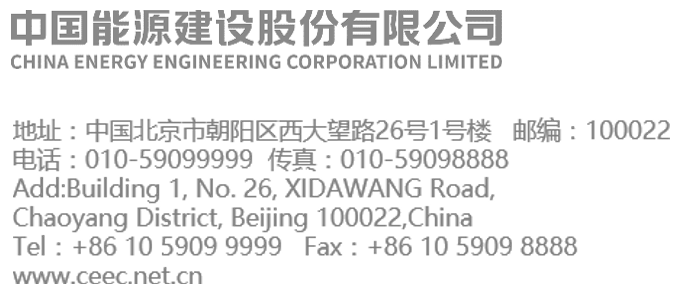
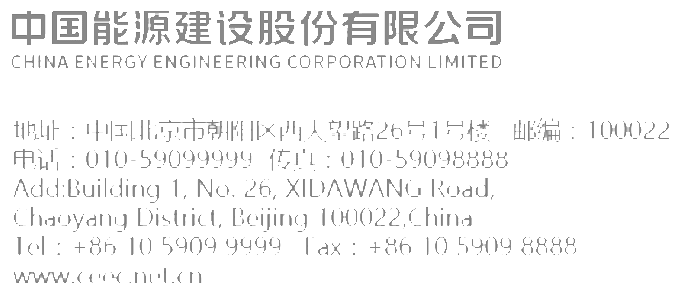
fix(decks): transparent contact block and fixed closing line on 中国能建v2
- images/contact_block.png: key the flat white background out
  (slice_images.py --alpha --bg "#FFFFFF" --strict-alpha) so the company
  block composites onto the page background instead of showing a white
  panel; the soft alpha ramp keeps the anti-aliased glyph edges.
- templates/04_ending.svg: the closing line is fixed template copy
  「感谢聆听，敬请指正」 instead of a {{THANK_YOU}} carrier, matching the
  source slide. The closing layout is intentionally zero-slot and the
  spec asserts that with `04_ending: []`.
- templates/design_spec.md: Overview, Page Roster and Assets rows follow.

Verified: svg_quality_checker.py --template-mode --canonical-authoring
0 blocking findings (18 placeholders after the change),
template_preview_pptx.py (5 slides, 2 masters, 5 layouts, 18 full-frame
placeholders), registrar dry-run reports no index drift, and rendered
checks confirm the transparent contact block, the fixed closing line and
the still-empty picture frame on the card page.

diff --git a/skills/ppt-master/templates/decks/中国能建v2/templates/design_spec.md b/skills/ppt-master/templates/decks/中国能建v2/templates/design_spec.md
@@ -33,7 +33,7 @@ placeholders:
     - "{{BLOCK_2_BODY}}"
     - "{{BLOCK_3_TITLE}}"
     - "{{BLOCK_3_BODY}}"
-  04_ending: ["{{THANK_YOU}}"]
+  04_ending: []
 ---
 
 # 中国能建 v2 — Design Specification
@@ -79,7 +79,7 @@ placeholders:
 - 目录页为白底：左上「目录/CONTENTS」深蓝标题配天蓝分隔线，右侧 3+2 两列条目，条条由蓝色序号牌、蓝色底板与白色条目文字组成。
 - 内容页与结束页共用浅色底图（含页脚红蓝条）作为页面底色；章节页在浅色底图上压整幅银色横幅承托白色大标题，正文列表左对齐。
 - 三点卡片页：左上企业箭头标识、右上口号；左侧为带柔和外阴影的照片框与下方蓝色说明，右侧为三段编号卡片（圆角编号牌 + 蓝色标题 + 正文）。
-- 结束页保持大留白：居中大号蓝色结束语、左下企业联系栏、右上口号。
+- 结束页保持大留白：居中大号蓝色结束语（固定文案「感谢聆听，敬请指正」）、左下透明底企业联系栏、右上口号。
 - 图片说明与卡片正文均从槽位左上角开始排布；封面标题与结束语属于短焦点内容，在完整边界内居中。
 
 ## V. Page Roster
@@ -90,7 +90,7 @@ placeholders:
 | `02_toc.svg` | CEEC v2 Plain | agenda | Agenda | 白底、深蓝目录标题、两列编号条目 | 五个目录条目 |
 | `03a_content_section_list.svg` | CEEC v2 Page | section_list | Section List | 银色横幅承托白色大标题、左对齐章节列表 | 页面标题、章节列表 |
 | `03b_content_photo_cards.svg` | CEEC v2 Page | photo_cards | Photo and Numbered Cards | 左照片与说明、右三张编号卡片 | 页面标题、图片、图片说明、三组卡片标题与正文 |
-| `04_ending.svg` | CEEC v2 Page | closing | Closing | 居中大号结束语、左下联系栏 | 结束语 |
+| `04_ending.svg` | CEEC v2 Page | closing | Closing | 居中大号固定结束语、左下透明底联系栏 | 无（固定结束语） |
 
 ## VI. Assets
 
@@ -100,7 +100,7 @@ placeholders:
 | page_background.png | 内容页与结束页的浅色底图（含页脚红蓝条） |
 | banner_strip.png | 章节页银色横幅，按源 `viewBox` 裁切铺满 |
 | ceec_mark.png | 三点卡片页左上企业箭头标识 |
-| contact_block.png | 结束页左下企业联系栏 |
+| contact_block.png | 结束页左下企业联系栏；白底已抠除，按透明背景合成在页面底图上 |
 
 ## VII. Placeholder Overrides
 
